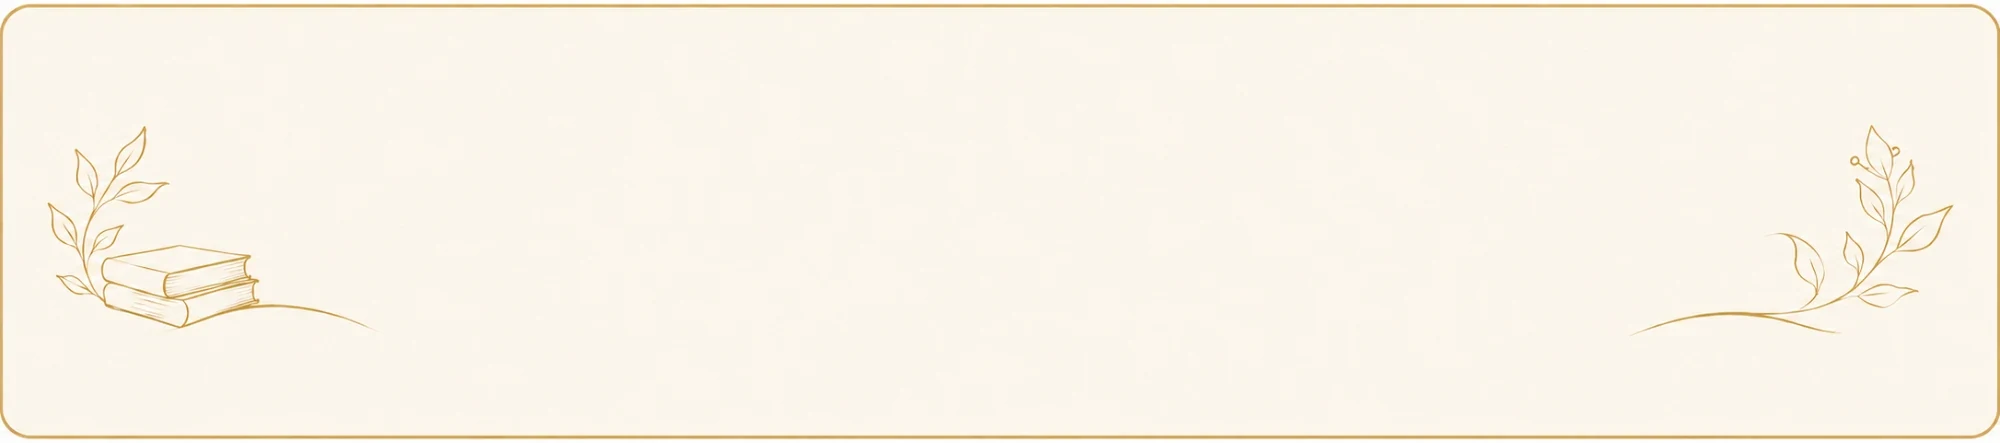
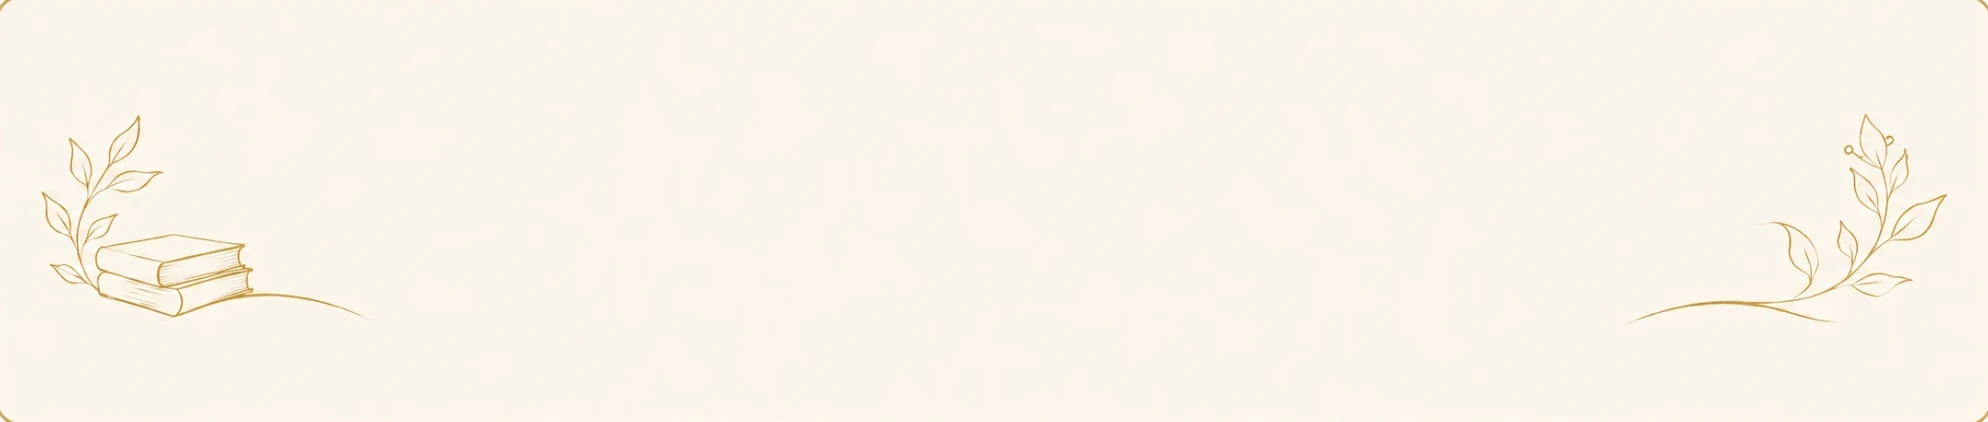
Dashboard header: centre the lines, a 1px frame, a slimmer panel on phones
Three fixes the owner asked for.

"Your progress" and "Your main path" were sitting left of centre. The
site's own p{max-width:74ch} was making each line narrower than the
panel, so centring the text only centred it inside that narrower line.
Paragraphs inside the panel now take its full width, and every line sits
on the middle.

The gold frame was drawn inside the picture, so its thickness followed
the picture's scale. It is cut out of the picture now and drawn as a 1px
CSS border instead, so it stays a hairline whatever the width. The panel
file is 1988 x 422 and should be sent without a frame from here on.

On a phone the panel was a thick block. The type steps down, the padding
and margins tighten, and the edge drops to a faint hairline, which brings
the whole header from about 290px to 244px on a 390px screen.

Claude-Session: https://claude.ai/code/session_01VyAiTU7gAX2B3a4HG2uYRt

diff --git a/assets/site.css b/assets/site.css
@@ -3192,10 +3192,13 @@ a.agehub-action:hover{border-color:var(--teal);color:var(--teal-dark)}
    yahan koi border ya rang nahi: tasveer badlo, bas. Panel banner se andar
    rehta hai, kabhi usse chauda nahi. Naam sabse bada, baaki uske neeche. */
 .dashhero-box{
-  margin:16px 18px 18px;padding:26px 36px 28px;text-align:center;
+  margin:16px 18px 18px;padding:24px 36px 26px;text-align:center;
   background:url("/assets/dash-box.webp") center/100% 100% no-repeat;
-  border-radius:16px;
+  border:1px solid color-mix(in srgb,var(--gold) 42%,transparent);border-radius:14px;
 }
+/* Site ka p{max-width:74ch} har line ko sakra kar deta tha, isliye beech me
+   nahi aati thi. Panel ke andar har line poori chaudai leti hai. */
+.dashhero-box p{max-width:none;margin-left:auto;margin-right:auto}
 .dashhero-box .eyebrow{margin-bottom:4px}
 .dashhero-title{margin:0;font-family:var(--serif);line-height:1.1;color:var(--ink)}
 .dashhero-hi{
@@ -3216,13 +3219,19 @@ a.agehub-action:hover{border-color:var(--teal);color:var(--teal-dark)}
 .dashhero-path b{color:var(--ink)}
 /* Phone par panel lamba aur patla ho jata hai: tasveer kheench kar bigad
    jaati hai aur bel-boote text ke neeche aa jate hain. Isliye chhoti screen
-   par tasveer hata kar wahi kagaz aur sunehra kinara CSS se banate hain. */
+   par tasveer hat jaati hai, text chhota ho jata hai aur panel patla rehta
+   hai; kinara baal jitna halka. */
 @media (max-width:720px){
   .dashhero-box{
-    margin:12px 10px 12px;padding:18px 14px 20px;
+    margin:10px 10px 10px;padding:13px 12px 14px;
     background:var(--cream);
-    border:1px solid color-mix(in srgb,var(--gold) 45%,transparent);
+    border-color:color-mix(in srgb,var(--gold) 26%,transparent);
   }
+  .dashhero-box .eyebrow{font-size:.66rem;letter-spacing:.14em;margin-bottom:2px}
+  .dashhero-hi{font-size:.95rem}
+  .dashhero-name{font-size:1.65rem;margin-top:0}
+  .dashhero-line{font-size:.9rem;margin-top:2px}
+  .dashhero-path{font-size:.8rem;margin-top:6px}
 }
 
 .dashkpis{display:grid;grid-template-columns:repeat(auto-fit,minmax(200px,1fr));gap:14px;margin-top:6px}

diff --git a/docs/accounts-status.md b/docs/accounts-status.md
@@ -131,11 +131,15 @@ _Last updated: 2026-11-04._
     A first-time reader gets "Welcome," and "Start your English literature journey.".
     **To replace either picture**: one file, same name, same shape, nothing else to change.
       - `assets/dash-banner.webp` — the wide painting, **2268 x 494 px** (shown at 1134 x 247).
-      - `assets/dash-box.webp` — the panel behind the greeting, **2000 x 443 px** (about 4.5 : 1).
-        It is stretched to the panel, so keep the art at the two ends and the middle clear.
+      - `assets/dash-box.webp` — the panel behind the greeting, **1988 x 422 px** (about 4.7 : 1).
+        It is stretched to the panel, so keep the art at the two ends and the middle clear, and leave
+        the gold frame **out** of it: the frame is a 1px CSS border, so it stays hairline at any size.
     The quote and the frame live inside the pictures, so the page never repeats them.
     **Under 720px the panel picture is dropped** (it would be squashed and the leaves would sit under
-    the words): the same cream paper and gold edge are drawn in CSS instead.
+    the words): plain cream paper, a fainter hairline edge, smaller type and tighter padding, so the
+    whole header is about 244px tall on a 390px phone.
+    Watch out: the site's `p{max-width:74ch}` pushed every centred line off-centre inside the panel,
+    so `.dashhero-box p` clears it. Any new line added there needs the same.
   - **The dashboard's own top bar** (`.dashtop`, static markup in `dashboard/index.html`): "My Dashboard"
     (the page's `h1`) in the middle, a **bell** and the **profile button** on the right. The old `.pagehead`
     (the "Your progress / My Dashboard" strip with the reading-woman painting) and the breadcrumb were

diff --git a/CLAUDE.md b/CLAUDE.md
@@ -168,8 +168,8 @@ and never ask the owner for it.**
   under it. The **bell is `disabled` and shows no dot or count** until something real is behind it — never
   add one for looks. The header is two pictures and nothing else to edit: `assets/dash-banner.webp`
   (the wide painting, 2268x494, shown at 1134x247) and `assets/dash-box.webp` (the panel the centred
-  greeting sits on, 2000x443, stretched — art at the two ends, middle clear; dropped under 720px, where
-  CSS draws the same paper and gold edge). The quote and the frame are inside the pictures, so the page
+  greeting sits on, 1988x422, stretched — art at the two ends, middle clear, **no frame in the picture**:
+  the gold frame is a 1px CSS border; dropped under 720px, where the panel is plain cream and slimmer). The quote and the frame are inside the pictures, so the page
   never repeats them, and `dashboard/index.html` loads Literata `1,700` for the italic name — keep it.
   `.dashbar` is the thin progress bar, not the top bar — do not confuse the two.
 - **Continue with Google** (on `/login/`, both forms): the button stays hidden until Supabase reports
